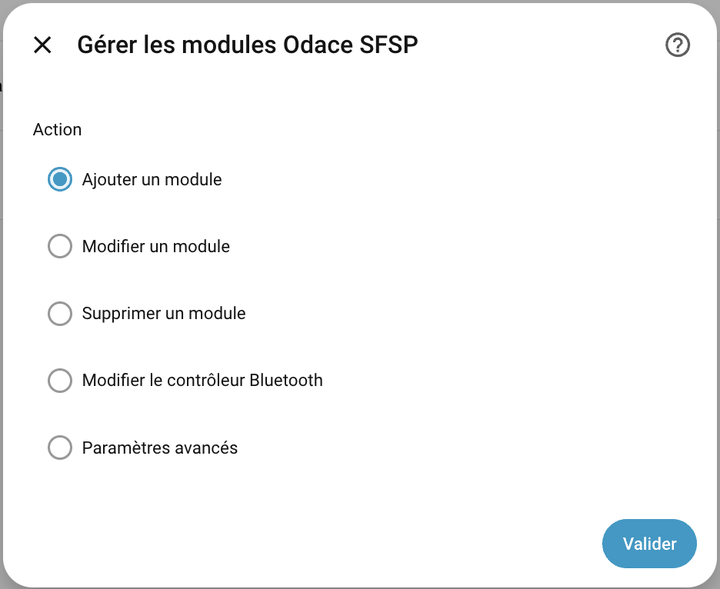
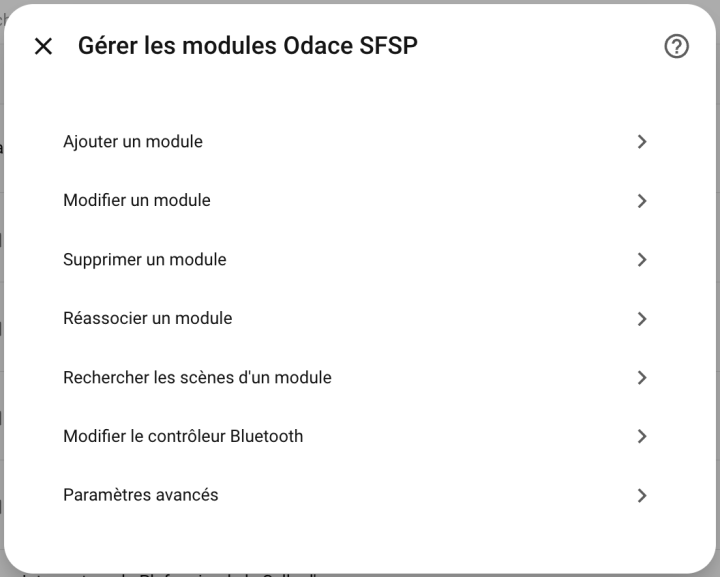
Ajout de 2 menu et mise à jour de copie d'écran.

diff --git a/custom_components/odace_sfsp/coordinator.py b/custom_components/odace_sfsp/coordinator.py
@@ -87,6 +87,31 @@ UNPAIR_SEND_FAILED = "send_failed"  # la trame n'a pas pu être émise
 UNPAIR_UNKNOWN     = "unknown"      # module inconnu
 
 
+def _hci_is_operational(name: str) -> bool:
+    """Teste si hcitool répond sur cette interface (synchrone, timeout 2 s).
+
+    Échoue pour une interface absente comme pour une interface éteinte (DOWN).
+    """
+    import subprocess  # noqa: PLC0415
+    try:
+        result = subprocess.run(["hcitool", "-i", name, "dev"], capture_output=True, timeout=2)
+        return result.returncode == 0
+    except (OSError, subprocess.TimeoutExpired):
+        return False
+
+
+def _hciconfig_up(name: str) -> str:
+    """Rallume une interface HCI (synchrone). Retourne le message d'erreur, vide si OK."""
+    import subprocess  # noqa: PLC0415
+    try:
+        result = subprocess.run(["hciconfig", name, "up"], capture_output=True, timeout=5)
+    except (OSError, subprocess.TimeoutExpired) as err:
+        return str(err)
+    if result.returncode != 0:
+        return (result.stderr or result.stdout).decode(errors="ignore").strip() or "échec"
+    return ""
+
+
 class OdaceSFSPCoordinator:
     """Gère le cycle de vie BLE + la persistance des devices.
 
@@ -140,6 +165,8 @@ class OdaceSFSPCoordinator:
         # Résultat attendu par l'écran de désappairage, par UUID
         self._unpair_futures: Dict[str, asyncio.Future] = {}
         self._unpair_confirm_timeout: float = 15.0
+        # Dernière tentative de rallumage de l'interface HCI (voir _power_on_hci)
+        self._last_power_on_attempt: float = 0.0
         # Modules « à associer » : UUID → échéance (voir _AWAITING_PAIR_TTL)
         self._awaiting_pair: Dict[str, float] = {}
         # Horodatage du dernier envoi de trame pair par UUID (anti-tempête re-pairing)
@@ -244,19 +271,8 @@ class OdaceSFSPCoordinator:
         - ``(None, "")`` si aucune interface ne répond.
         """
         import glob  # noqa: PLC0415
-        import subprocess  # noqa: PLC0415
 
-        def _is_hci_operational(name: str) -> bool:
-            """Teste si hcitool répond sur cette interface (timeout 2 s)."""
-            try:
-                result = subprocess.run(
-                    ["hcitool", "-i", name, "dev"],
-                    capture_output=True,
-                    timeout=2,
-                )
-                return result.returncode == 0
-            except (OSError, subprocess.TimeoutExpired):
-                return False
+        _is_hci_operational = _hci_is_operational
 
         def _sysfs_mac(name: str) -> str:
             try:
@@ -603,7 +619,49 @@ class OdaceSFSPCoordinator:
                 self.hci_name,
             )
             await self._resolve_hci_by_mac()
-        return await hci_send(self.hci_index, payload)
+        if await hci_send(self.hci_index, payload):
+            return True
+        # Échec d'émission : l'interface peut exister dans sysfs tout en étant DOWN
+        # (« Network is down »), par exemple quand l'adaptateur a été renuméroté et
+        # qu'il reste une entrée fantôme. Re-tester l'interface et, si une autre
+        # répond, réessayer une fois dessus.
+        previous = self.hci_name
+        await self._resolve_hci_by_mac()
+        if self.hci_name != previous:
+            return await hci_send(self.hci_index, payload)
+        # Aucune autre interface : si la nôtre est éteinte, tenter de la rallumer.
+        if await self.hass.async_add_executor_job(self._power_on_hci):
+            return await hci_send(self.hci_index, payload)
+        return False
+
+    def _power_on_hci(self) -> bool:
+        """Rallume l'interface configurée si elle est éteinte (synchrone, executor).
+
+        Retourne True si l'interface était éteinte et répond de nouveau. Une seule
+        tentative par minute, pour ne pas relancer hciconfig à chaque commande
+        quand l'interface refuse de s'allumer.
+        """
+        import os  # noqa: PLC0415
+        name = self.hci_name
+        if not os.path.exists(f"/sys/class/bluetooth/{name}"):
+            return False  # interface absente : rien à rallumer
+        if _hci_is_operational(name):
+            return False  # elle répond : l'échec d'émission a une autre cause
+        now = time.time()
+        if now - self._last_power_on_attempt < 60.0:
+            return False
+        self._last_power_on_attempt = now
+        _LOGGER.warning("Odace SFSP — %s est éteinte (DOWN) → tentative de rallumage", name)
+        error = _hciconfig_up(name)
+        if error:
+            _LOGGER.error("Odace SFSP — impossible de rallumer %s : %s", name, error)
+            return False
+        time.sleep(1.0)  # laisse le contrôleur terminer son initialisation
+        if _hci_is_operational(name):
+            _LOGGER.warning("Odace SFSP — %s rallumée, la commande est rejouée", name)
+            return True
+        _LOGGER.error("Odace SFSP — %s ne répond toujours pas après rallumage", name)
+        return False
 
     async def async_send_command(self, uuid: str, ac: str, options: Optional[int] = None) -> None:
         """Envoie une commande à un module.

diff --git a/README.md b/README.md
@@ -75,7 +75,7 @@ Lors de la première configuration, l'intégration propose de choisir le protoco
 
 ### Menu de gestion des modules
 
-Depuis **Paramètres → Appareils et services → Schneider Odace SFSP**, cliquer sur **Configurer** pour accéder au menu principal de gestion des modules. Ce menu propose les actions suivantes : ajouter un module, modifier un module, supprimer un module, ainsi que les paramètres avancés et la modification du contrôleur Bluetooth.
+Depuis **Paramètres → Appareils et services → Schneider Odace SFSP**, cliquer sur **Configurer** pour accéder au menu principal de gestion des modules. Ce menu propose les actions suivantes : ajouter, modifier, supprimer ou réassocier un module, rechercher les scènes d'un module, modifier le contrôleur Bluetooth et accéder aux paramètres avancés.
 
 <img src="images/menu-configuration.png" alt="Menu Configurer" width="480">
 
@@ -87,7 +87,7 @@ L'association d'un module Odace SFSP se fait en mode apprentissage :
 2. Dans les 60 s qui suivent, ouvrir le menu **Configurer** et choisir **Ajouter un module**. L'écran liste les modules qui se sont signalés pendant la dernière minute : il faut donc appuyer sur le module **avant** de l'ouvrir. Si la liste est vide, fermer l'écran, appuyer à nouveau sur le module et rouvrir.
 3. Sélectionner le module détecté, qui apparaît avec son UUID et son type. Saisir un nom, vérifier le type (`switch`, `dcl`, `generic`, etc.) et valider.
 
-Pour les modules commandables (`dcl`, `generic`, `shutter`, `plug`), la trame d'association est envoyée automatiquement tant que le module clignote encore. Si le délai est dépassé, appuyer à nouveau sur le module : l'association est alors renvoyée.
+Pour les modules commandables (`dcl`, `generic`, `shutter`, `plug`), la trame d'association est envoyée automatiquement tant que le module clignote encore. Si le délai est dépassé, appuyer à nouveau sur le module : la trame part à l'appui, pendant les 30 minutes qui suivent l'ajout.
 
 Un module peut aussi être ajouté sans mode apprentissage, en choisissant **Saisir manuellement** et en renseignant son UUID (format logs/Jeedom, ou format étiquette du module).
 
@@ -104,16 +104,41 @@ Depuis le menu **Configurer** de l'intégration il est également possible de :
   <img src="images/menu-modification-module-2.png" alt="Modification d'un module étape 2" width="49%" align="top">
 </p>
 
-- **Supprimer un module** : retire le module de l'intégration et supprime l'entité associée.
+- **Supprimer un module** : retire le module de l'intégration et supprime l'entité associée. Pour un module commandable, l'option **Désappairer le module puis supprimer de HA** rompt aussi l'association côté module : un écran d'attente demande d'appuyer une fois sur son bouton, et le module n'est supprimé que s'il confirme le désappairage.
 
 <p>
   <img src="images/menu-suppression-module-1.png" alt="Suppression d'un module étape 1" width="49%" align="top">
   <img src="images/menu-suppression-module-2.png" alt="Suppression d'un module étape 2" width="49%" align="top">
 </p>
 
+### Réassocier un module
+
+La trame d'association est une bascule : elle associe un module libre, mais désassocie un module déjà associé. L'intégration ne l'envoie donc qu'à un module « à associer », c'est-à-dire ajouté ou marqué à réassocier depuis moins de 30 minutes. Un appui sur le bouton d'un module qui fonctionne, par exemple pour lui associer un interrupteur sans fil, ne touche pas à son association avec Home Assistant.
+
+Le menu **Réassocier un module** sert pour un module qui n'obéit plus (réinitialisé, ou associé à un autre contrôleur) :
+
+1. Choisir le module dans la liste et valider.
+2. Appuyer **une fois** sur le bouton physique du module dans les 30 minutes : Home Assistant lui envoie la trame d'association.
+
+Si le module était encore associé, il se désassocie au lieu de s'associer. Une alerte apparaît alors dans **Paramètres → Réparations** : un second appui sur son bouton le réassocie et lève l'alerte.
+
+<img src="images/reassocier-module.png" alt="Réassocier un module" width="480">
+
+### Rechercher les scènes d'un module
+
+Une scène n'est pas un module physique : c'est un identifiant de 8 caractères hexadécimaux mémorisé par les modules, de type personnalisée ou Schneider. Le menu **Rechercher les scènes d'un module** les retrouve :
+
+1. Choisir un module `dcl`, `shutter` ou `generic` déjà enregistré.
+2. Choisir les scènes à rechercher : personnalisées, Schneider, ou les deux.
+3. Home Assistant interroge le module, puis crée une entité `scene` pour chaque scène nouvelle. L'écran suivant affiche les scènes trouvées.
+
+Le type d'une scène se règle ensuite dans **Modifier un module**. Les scènes n'ont pas encore été testées sur du matériel réel.
+
+<img src="images/rechercher-scenes.png" alt="Rechercher les scènes d'un module" width="480">
+
 ### Modification du contrôleur Bluetooth
 
-Si le contrôleur Bluetooth est remplacé, il est possible de mettre à jour son adresse MAC dans la configuration de l'intégration sans avoir à réassocier tous les modules. L'option est disponible dans le menu **Configurer**.
+Le menu **Modifier le contrôleur Bluetooth** permet de choisir un autre adaptateur. L'adresse MAC qui signe les trames est conservée : les modules déjà associés continuent d'obéir au nouveau contrôleur, sans réassociation. Elle se modifie dans les paramètres avancés.
 
 ### Paramètres avancés
 

diff --git a/README_EN.md b/README_EN.md
@@ -79,7 +79,7 @@ During the initial setup, the integration asks which protocol to use to talk to 
 
 ### Module management menu
 
-From **Settings → Devices & services → Schneider Odace SFSP**, click **Configure** to open the main module management menu. This menu offers the following actions: add a module, edit a module, remove a module, as well as the advanced settings and the Bluetooth controller change.
+From **Settings → Devices & services → Schneider Odace SFSP**, click **Configure** to open the main module management menu. This menu offers the following actions: add, edit, remove or re-pair a module, search a module's scenes, change the Bluetooth controller and open the advanced settings.
 
 <img src="images/menu-configuration.png" alt="Configure menu" width="480">
 
@@ -91,9 +91,9 @@ An Odace SFSP module is paired in learning mode:
 2. Within the next 60 s, open the **Configure** menu and choose **Add a module**. The screen lists the modules that announced themselves during the last minute, so press the module **before** opening it. If the list is empty, close the screen, press the module again and reopen it.
 3. Select the detected module, shown with its UUID and type. Enter a name, check the type (`switch`, `dcl`, `generic`, etc.) and confirm.
 
-For controllable modules (`dcl`, `generic`, `shutter`, `plug`), the pairing frame is sent automatically as long as the module is still blinking. If the delay has elapsed, press the module again: the pairing frame is then sent again.
+For controllable modules (`dcl`, `generic`, `shutter`, `plug`), the pairing frame is sent automatically as long as the module is still blinking. If the delay has elapsed, press the module again: the frame is sent on the press, during the 30 minutes that follow the addition.
 
-A module can also be added without learning mode, by choosing **Saisir manuellement** (manual entry) and typing its UUID (logs/Jeedom format, or module label format).
+A module can also be added without learning mode, by choosing **Enter manually** and typing its UUID (logs/Jeedom format, or module label format).
 
 <img src="images/menu-ajout-module.png" alt="Add a module menu" width="480">
 
@@ -108,16 +108,41 @@ From the integration's **Configure** menu you can also:
   <img src="images/menu-modification-module-2.png" alt="Editing a module, step 2" width="49%" align="top">
 </p>
 
-- **Remove a module**: removes the module from the integration and deletes the associated entity.
+- **Remove a module**: removes the module from the integration and deletes the associated entity. For a controllable module, the **Unpair the module, then remove from HA** option also breaks the pairing on the module side: a waiting screen asks you to press its button once, and the module is removed only if it confirms unpairing.
 
 <p>
   <img src="images/menu-suppression-module-1.png" alt="Removing a module, step 1" width="49%" align="top">
   <img src="images/menu-suppression-module-2.png" alt="Removing a module, step 2" width="49%" align="top">
 </p>
 
+### Re-pairing a module
+
+The pairing frame is a toggle: it pairs a free module, but unpairs a module that is already paired. The integration therefore only sends it to a module "to be paired", that is, added or marked for re-pairing less than 30 minutes ago. Pressing the button of a working module, for example to pair a wireless switch with it, does not affect its pairing with Home Assistant.
+
+The **Re-pair a module** menu is meant for a module that no longer obeys (reset, or paired with another controller):
+
+1. Choose the module in the list and confirm.
+2. Press the module's physical button **once** within 30 minutes: Home Assistant sends it the pairing frame.
+
+If the module was still paired, it unpairs instead of pairing. An alert then appears in **Settings → Repairs**: a second press on its button pairs it again and clears the alert.
+
+<img src="images/reassocier-module.png" alt="Re-pair a module" width="480">
+
+### Searching a module's scenes
+
+A scene is not a physical module: it is an 8-character hexadecimal identifier stored by the modules, of type custom or Schneider. The **Search a module's scenes** menu finds them:
+
+1. Choose a `dcl`, `shutter` or `generic` module that is already registered.
+2. Choose the scenes to search: custom, Schneider, or both.
+3. Home Assistant queries the module, then creates a `scene` entity for each new scene. The next screen shows the scenes found.
+
+A scene's type can then be changed in **Edit a module**. Scenes have not yet been tested on real hardware.
+
+<img src="images/rechercher-scenes.png" alt="Search a module's scenes" width="480">
+
 ### Changing the Bluetooth controller
 
-If the Bluetooth controller is replaced, its MAC address can be updated in the integration's configuration without having to pair all the modules again. The option is available in the **Configure** menu.
+The **Change the Bluetooth controller** menu lets you choose another adapter. The MAC address that signs the frames is kept: modules that are already paired keep obeying the new controller, without re-pairing. It can be changed in the advanced settings.
 
 ### Advanced settings
 

diff --git a/CHANGELOG.md b/CHANGELOG.md
@@ -14,6 +14,8 @@ Version diffusée en bêta.
 
 - Scènes : elles peuvent enfin être envoyées. Leur identifiant fait 8 caractères hexadécimaux, alors que les formulaires, l'import et les services n'en acceptaient que 6 : la trame, trop courte, était rejetée avant l'émission.
 - Ajout d'un contrôleur local : l'interface proposée par défaut est toujours une interface détectée.
+- Interface `hci` présente mais éteinte (« Network is down ») : après un échec d'émission, l'interface est testée à nouveau et, si une autre interface répond, la commande est rejouée dessus. Auparavant seule la disparition de l'interface était détectée.
+- Interface `hci` éteinte sans autre interface disponible : l'intégration tente de la rallumer (`hciconfig hciX up`, une tentative par minute au plus) puis rejoue la commande.
 - Désappairage : le module n'est supprimé de Home Assistant que s'il confirme (code 13). La suppression forcée après 15 secondes est retirée.
 - Désappairage : une seule trame est envoyée par appui. Si le module répond « associé » (code 12), il est conservé ; la seconde trame envoyée auparavant ne pouvait pas être acceptée, le module n'étant plus en apprentissage.
 - Désappairage : la réponse du module est guettée dès le début de l'émission. Une confirmation arrivée pendant l'envoi n'est plus manquée.
@@ -34,6 +36,11 @@ Version diffusée en bêta.
 - Menus traduits : les menus et listes de choix ne sont plus écrits en français dans le code. Ils s'affichent en français ou en anglais selon la langue de Home Assistant. Les menus principaux deviennent des listes de boutons.
 - Suppression d'une scène ou d'un interrupteur : le désappairage n'est plus proposé, seuls les modules commandables étant associés au contrôleur.
 - `strings.json` réaligné sur la traduction française.
+
+#### Documentation
+
+- README (français et anglais) et wiki : menus **Réassocier un module** et **Rechercher les scènes d'un module**, avec leurs captures ; désappairage ; conservation de l'adresse MAC au changement de contrôleur.
+- Captures du menu principal et des paramètres avancés mises à jour.
 
 ### 2.1.1_beta1 - 2026-10-09
 
